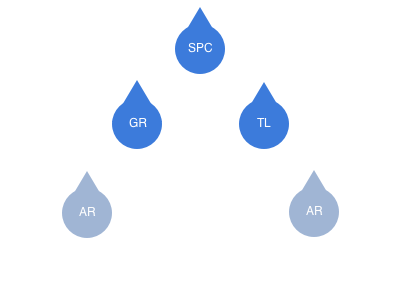
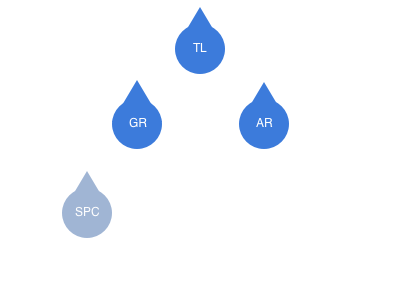
Incorporate oges changes to AIT 11x

diff --git a/docs/source/ait_11/comunication.rst b/docs/source/ait_11/comunication.rst
@@ -3,7 +3,10 @@ Communication within a Fireteam
 
 Within a Fireteam it is important that personnel are able to communicate clearly and effectively. Most communication in a Fireteam is verbal communication and does not rely on a radio.
 
-Fire team members should only use the radio when separated from the team leader or when transmitting information that is time critical to the entire squad.
+.. note::
+  Fireteam members should only use the radio when separated from the team leader or when transmitting information that is time critical to the entire squad.
+
+  **95% of Fireteam communication is verbal and does not require radio use**
 
 In general the squad network should be kept clear so that Team Leaders can talk to Squad Leaders
 
@@ -45,13 +48,13 @@ Within a Fireteam there are only four basic communication concepts that need to 
 
   If someone is able to hear you they should respond:
 
-  ``CALLSIGN, lima charlie on FREQUENCY over.``
+  ``CALLSIGN, this is ME. Roger on FREQUENCY over.``
 
   .. note::
 
     If a frequency is received with poor reception you should respond to their radio check with:
 
-    ``CALLSIGN, you are coming in broken and unreadable over.``
+    ``CALLSIGN, this is ME, you are coming in broken and unreadable over.``
 
   .. warning::
 
@@ -77,7 +80,7 @@ Within a Fireteam there are only four basic communication concepts that need to 
 
   The format for a contact report is the same as the techniques learnt in BCT, except it is now over a radio:
 
-  ``You, this is Me, Contact Distance, Direction, Description Over``
+  ``You, this is Me, Taking Contact Distance, Direction, Description Over``
 
 Finishing touches for radio protocols
 --------------------------------------

diff --git a/docs/source/ait_11/formations.rst b/docs/source/ait_11/formations.rst
@@ -44,7 +44,9 @@ Formations for Fire Teams
   .. image:: ../_static/Wedge.png
       :align: center
 
-  The most common formation for a fire team is the Wedge formation. This formation consists of a triangle formed of the team leader with the auto rifleman in the centre rear so that he can move to the side with contactske.
+  The most common formation for a fire team is the Wedge formation. This formation consists of a triangle formed of the team leader on point with the Auto Rifleman on the "weak side" of the wedge. The Specialist and the Grenadier form on the same side providing a "strong side".
+
+  The team leader will choose the sides depending on the likely direction of contact.
 
   This formation offers a good mix of security and speed. In this formation we have front, flank and rear security and the Autorifleman is able to manoeuvre to the side of the wedge that is receiving contact.
 

diff --git a/docs/source/ait_11/equipment.rst b/docs/source/ait_11/equipment.rst
@@ -23,9 +23,9 @@ The standard issue combat uniform is the TFA NWU2/3 (AOR 1 / AOR 2 respectively 
 
 We issue FAST helmets for MOUT and Boonie Hats for patrols. All soldiers must carry a FAST helmet on their person at all times but may also carry a boonie hat if they wish.
 
-We issue TFA plate carriers in either NWU2, NWU3, Tan or Green.
+We issue TFA plate carriers in either NWU2, NWU3, Tan or Foliage.
 
-Finally we issue TFA Assualt packs in NWU2, NWU3, Tan or Green for infantry and TFA Caryalls for Medics in the same camoflauge sets.
+Finally we issue TFA Assualt packs in NWU2, NWU3, Tan or Foliage for infantry and TFA Caryalls for Medics in the same camoflauge sets. CLF radio backpacks in Tan or Foliage are available to leadership positions.
 
 Communication and Navigation Equipment
 --------------------------------------------

diff --git a/docs/source/ait_11/infantry_of_the_rrf.rst b/docs/source/ait_11/infantry_of_the_rrf.rst
@@ -41,7 +41,7 @@ Some examples of the courses that will become available to you are:
 
   Taking JSRS means that you are able to become a Fire Team Leader, giving you an opportunity to command a small group of personnel and start a career in leadership.
 
-**Tactical Combat Casualt Care Training**
+**Tactical Combat Casualty Care Training**
 
   TC3 is our school for medical and trauma care. The primary focus is on training you to handle casualties on the battlefield including conducting triage and rendering aid to wounded personnel - both friendly and hostile - in line with the internation rules of war.
 
